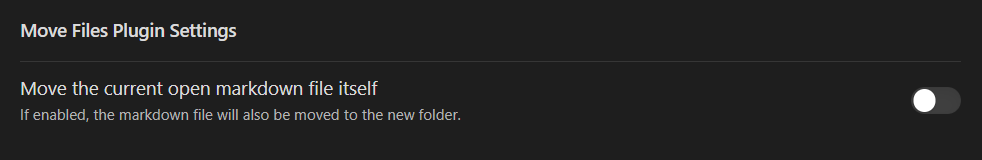
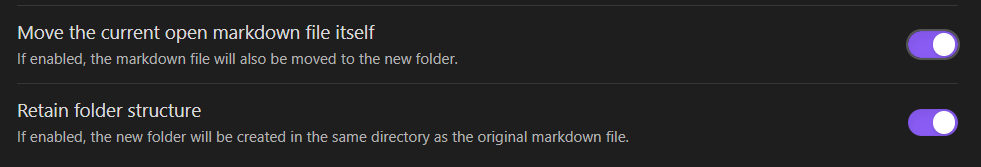
Added retain folder settings

diff --git a/main.ts b/main.ts
@@ -2,10 +2,12 @@ import { App, MarkdownView, Modal, Notice, Plugin, PluginSettingTab, Setting, TF
 
     interface MoveFilesPluginSettings {
             moveMdFile: boolean;
+            retainFolderStructure: boolean;
     }
 
     const DEFAULT_SETTINGS: MoveFilesPluginSettings = {
             moveMdFile: false,
+            retainFolderStructure: true,
     };
 
     
@@ -59,6 +61,16 @@ export default class MoveFilesPlugin extends Plugin {
                     this.plugin.settings.moveMdFile = value;
                     await this.plugin.saveSettings();
                     }));
+
+                new Setting(containerEl)
+                .setName('Retain folder structure')
+                .setDesc('If enabled, the new folder will be created in the same directory as the original markdown file. If disabled, the new folder will be created in the root directory of the vault.')
+                .addToggle(toggle => toggle
+                    .setValue(this.plugin.settings.retainFolderStructure)
+                    .onChange(async (value) => {
+                    this.plugin.settings.retainFolderStructure = value;
+                    await this.plugin.saveSettings();
+                    }));
             }
             }(this.app, this));
 	}
@@ -88,8 +100,13 @@ export default class MoveFilesPlugin extends Plugin {
             new Notice('No linked files found in the markdown file.');
             return;
         }
-
-        const targetFolderName = `${file.basename} files`;
+        
+        var existingFolderPath = file.parent?.path;
+        if(!this.settings.retainFolderStructure)
+        {
+            existingFolderPath = "";
+        }
+        const targetFolderName = `${existingFolderPath}/${file.basename} files`;
 		const folderExists = this.app.vault.getAbstractFileByPath(targetFolderName);
 		if (!(folderExists instanceof TFolder) )
 		{

diff --git a/README.md b/README.md
@@ -6,10 +6,13 @@ This will create a folder with Name:
 "{filename} files" and move all the linked files for e.g. png,pdf,jpg...etc to this folder. It will also udpate the links in the note.
 
 ### Updates
+Version 1.2.0 : Added support for retaining the folder structure while creating the new folder.
 Version 1.1.0 : Added support for moving the open note/md files also to the folder.
 
 ## Settings
-Select the below setting to move the open note/md file as well to the folder created.
+Select the below setting to 
+1. Move the open note/md file as well to the folder created.
+2. Retain the folder structure while creating the new folder.
 
 ![Move Files Setting](Settings.png)
 
